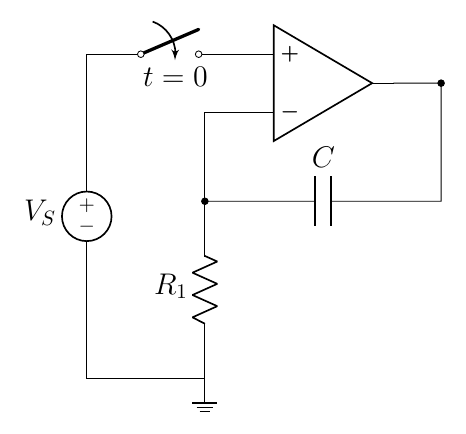
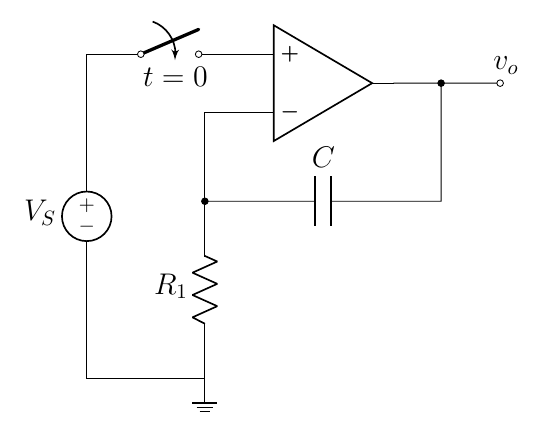
edit 7.70

diff --git a/2.5 First-Order Op Amp/7.7 First Order Op-Amp Circuit/7.70(new).tex b/2.5 First-Order Op Amp/7.7 First Order Op-Amp Circuit/7.70(new).tex
@@ -22,11 +22,15 @@
     %     to[C,l_=\cname{}] (8,0)
     %     ;
 
+    \draw(6,0 |- oa.out)
+        to[short,-o] ++(1,0);
+
     \draw(2,0) node[ground]{}
         to[short] (0,0);
 
     %%% find %%%
     \node at(1.5,5.1) []{$t=0$};
+    \node at(7.1,5.3) []{$v_o$};
     % \draw[magenta](8.2,3.5)  
     %     to[open,v^=$v_o$] ++(0,-2);
 \end{circuitikz}
